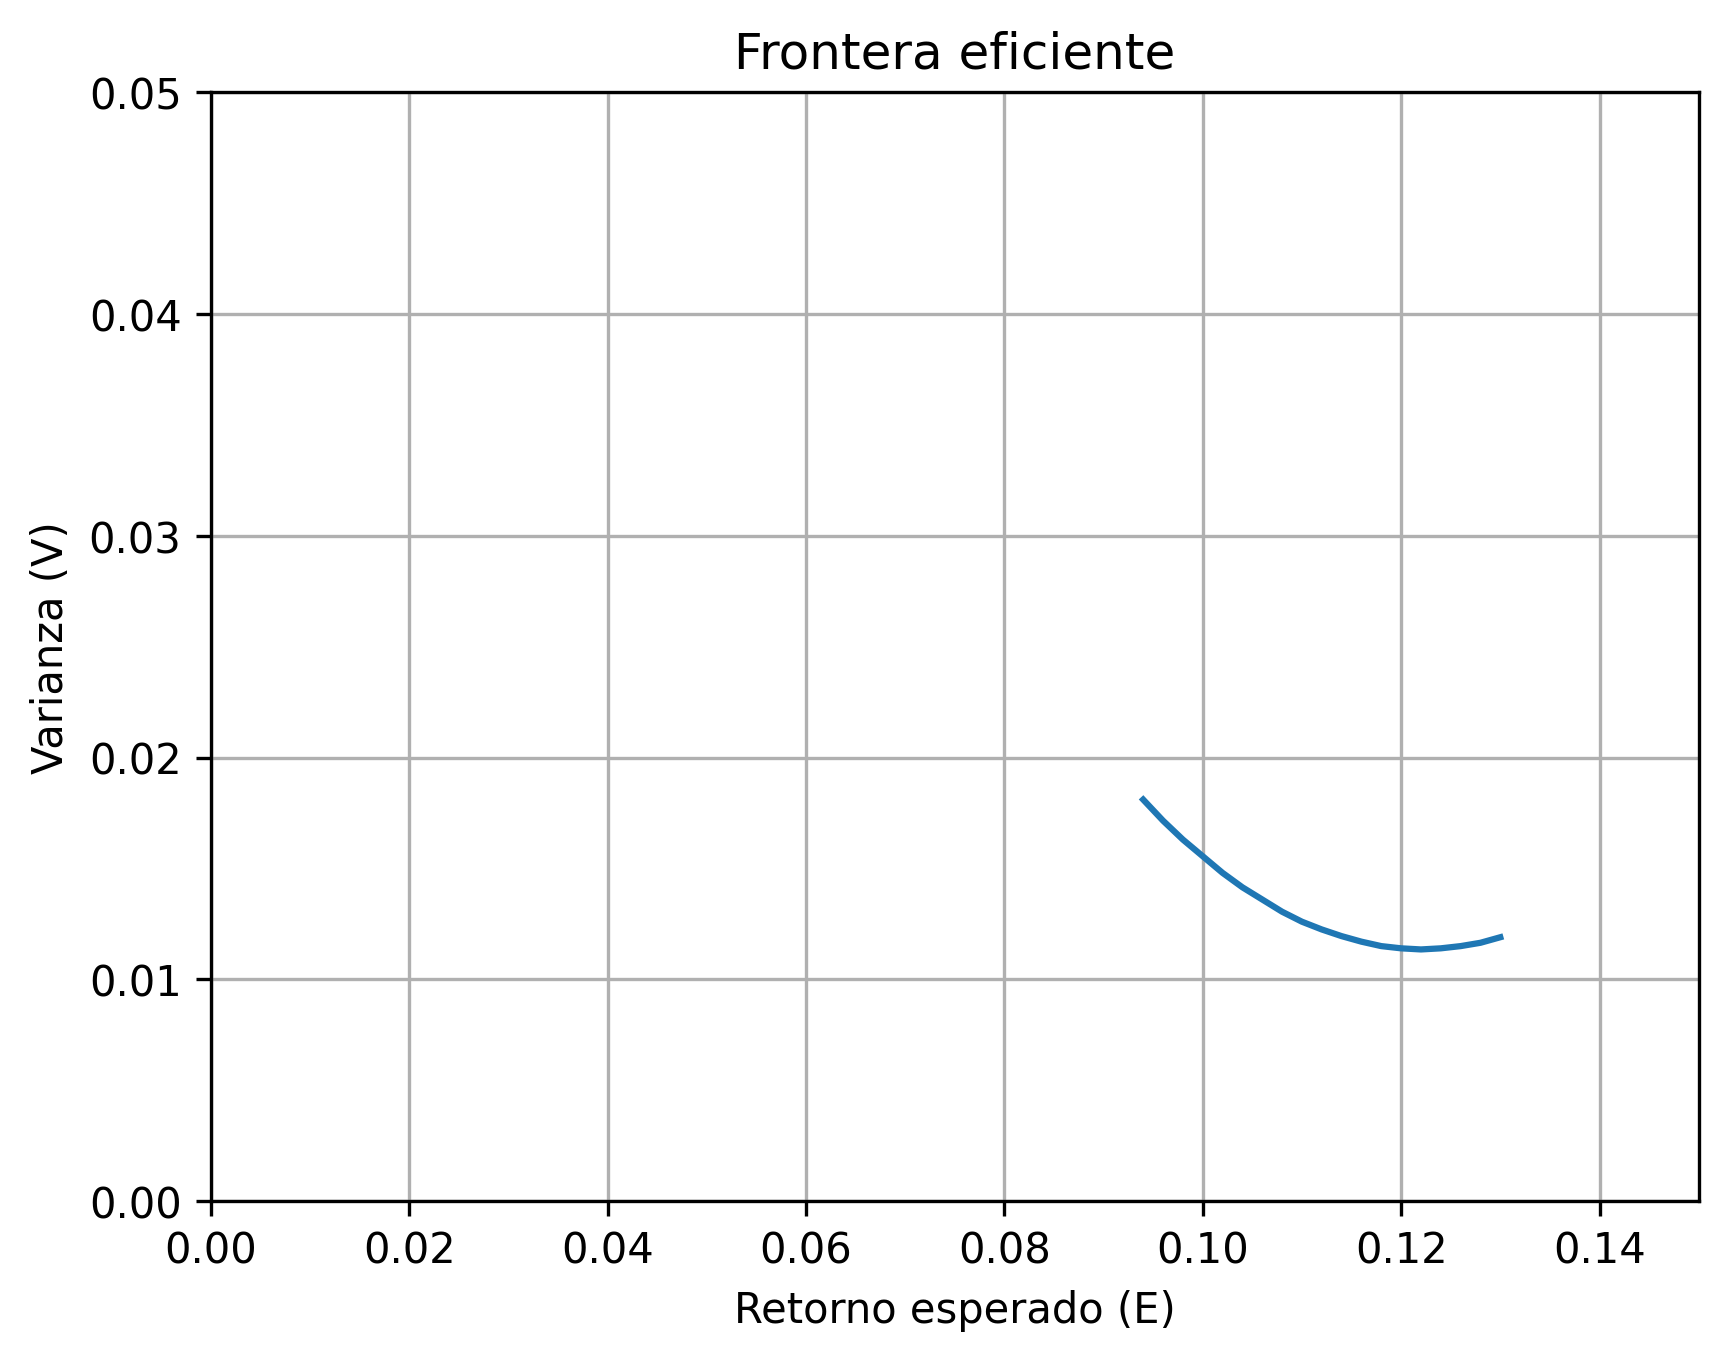
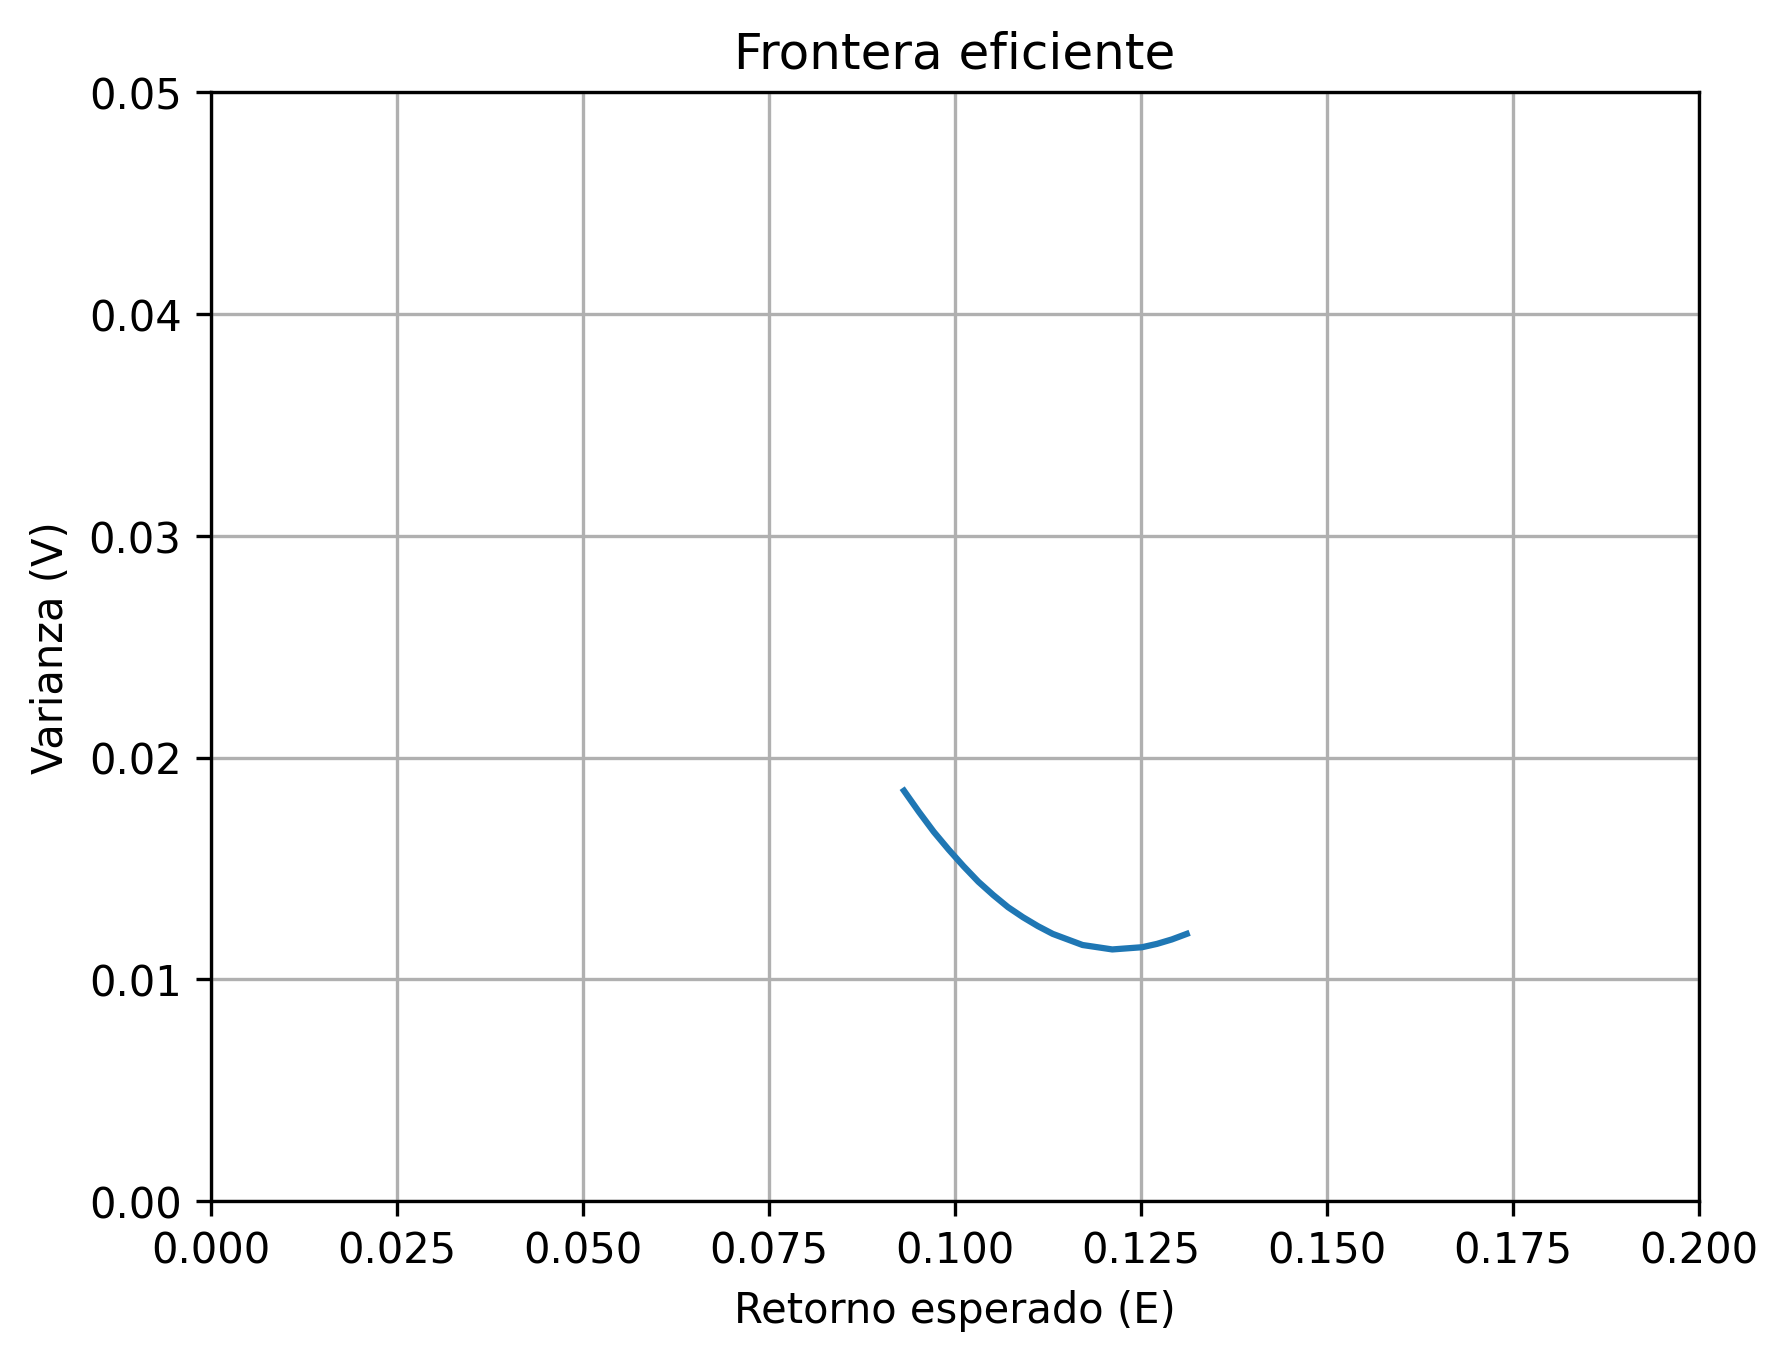
final del codigo

diff --git a/src/FronteraEficiente3IndicesETF.py b/src/FronteraEficiente3IndicesETF.py
@@ -5,9 +5,9 @@ import random
 import math
 import pandas as pd
 
-m1 = 0.1180850933
-m2 = 0.1619481497
-m3 = 0.0771816605
+m1 = 0.1180850933 #IBEX35
+m2 = 0.1619481497 #SP500
+m3 = 0.0771816605 #EMM
 v1 = 0.03492332644
 v2 = 0.02776645397
 v3 = 0.03505910984
@@ -18,28 +18,39 @@ cv23 = 0.0005112105901
 # Gröbner se calcula UNA sola vez
 p1, p2, E, V = sp.symbols('p1 p2 E V', real=True)
 p3 = 1 - p1 - p2
+# Definimos las ecuaciones polinomiales para la frontera eficiente
+# Se tienen que igualar a 0, se pasan al otro lado de la igualdad
 pol2 = E - (m1*p1 + m2*p2 + m3*p3)
 pol3 = V - (v1*p1**2 + v2*p2**2 + v3*p3**2 +
             2*cv12*p1*p2 + 2*cv13*p1*p3 + 2*cv23*p2*p3)
 
+#Creamos el sistema de ecuaciones polinomiales y calculamos el Gröbner
 G = sp.groebner([pol2, pol3], p1, p2, E, V, order='lex')
-eq1, eq2 = G[0], G[1]
+eq1, eq2 = G[0], G[1] #sacamos los dos elementos del ideal
 
+#Resolvemos el sistema de ecuaciones polinomiales para p1 y p2 en función de E y V usando la base
+#Nos quedaramos con la primera solución, ya que la segunda es la misma pero con p1 y p2 intercambiados, lo que no aporta nada nuevo a la frontera eficiente
+#Esta solucion, reduciendo con la base de grobner hará que cada elemento del ideal solo dependa de p1 o p2, facilitando los calculos
 p1_expr = sp.solve(eq1, p1)[0]
 eq2_sub = sp.simplify(eq2.subs(p1, p1_expr))
 sol_p2 = sp.solve(eq2_sub, p2)
 p1_sol = sol_p2[0]
 p2_sol = sol_p2[1]
 
-# Ahora el bucle solo sustituye E y evalúa
+# Realizaremos un bucle, para aproximar E y V, y asi obtener los pesos de cada activo para cada punto de la frontera eficiente, quedandonos con el punto de menor varianza para cada valor de E
 MenoresVarianzas = []
 Esperanzas = []
+#Creamos un rango de valores para E, que es el retorno esperado, para recorrer la frontera eficiente.
 recorrer = np.linspace(0.005, 0.05, 500)
 
 #El E_valor solo puede estar entre la rentabilidad minima y maxima
 recorrer = np.linspace(0.01, 0.06, 1000)
-E_valor = 0.08
-while E_valor <= 0.16:
+ #Las esperanzas tienen que estar entre la rentabilidad minima y maxima, si no,
+ # no se pueden calcular los pesos de cada activo, ya que no se pueden obtener soluciones reales para p1 y p2
+E_valor = 0.0771816605
+while E_valor <= 0.1619481497:
+    #Sustituimos los valores de E
+   
     p1_E = p1_sol.subs(E, E_valor)
     p2_E = p2_sol.subs(E, E_valor)
     f_p1 = sp.lambdify(V, p1_E, "numpy")
@@ -49,31 +60,39 @@ while E_valor <= 0.16:
 
     for V_valor in recorrer:
         try:
+            #pasamos los valores a tipo float y calculamos el peso 3, que era dependiente de los otros 2 por la reestriccion
             pol1It = float(np.real(f_p1(V_valor)))
             pol2It = float(np.real(f_p2(V_valor)))
             pol3It = 1 - pol1It - pol2It
-            if (np.isfinite(pol1It) and np.isfinite(pol2It) and np.isfinite(pol3It)
-                    and pol1It >= 0 and pol2It >= 0 and pol3It >= 0):
+            if (np.isfinite(pol1It) and np.isfinite(pol2It) and np.isfinite(pol3It) and pol1It >= 0 and pol2It >= 0 and pol3It >= 0):
+            #ponemos la reestriccion de que los pesos no pueden ser negativos, ya que sino el inversor estaria vendiendo el activo
                 V_frontera.append(V_valor)
+                #Guardamos los pessos
                 p1_f.append(pol1It)
                 p2_f.append(pol2It)
                 p3_f.append(pol3It)
         except:
+            #Si da un fallo, saltamos a la siguiuente iteracion, que puede ocurrir si
+            #una de las reestricciones no se cumple
             continue
 
     if V_frontera:
+        #Guardamos el punto de menor varianza para cada valor de E, que es el punto de la frontera eficiente
         i = np.argmin(V_frontera)
+        #Guardamos el valor n veces, el nhumero de iteraciones
         MenoresVarianzas.append([E_valor, V_frontera[i], p1_f[i], p2_f[i], p3_f[i]])
         Esperanzas.append(E_valor)
+        #Aumentamos E para la siguiente iteracion
     E_valor += 0.002
 
-
+#Cambiamos a formato [(Esperanza,Varianza)] para facilitar los graficos
 frontera = list(zip(Esperanzas, MenoresVarianzas))
 print(frontera)
 
 E_vals = []
 V_vals = []
 
+#Sacamos los valores de E y V para graficar la frontera eficiente en un array, para el formato de matplotlib
 for row in MenoresVarianzas:
     E_vals.append(row[0])
     V_vals.append(row[1])
@@ -81,11 +100,12 @@ for row in MenoresVarianzas:
 E_vals = np.array(E_vals)
 V_vals = np.array(V_vals)
 
-# ordenar por E 
+# ordenar por E y V, deberian ya estar ordenados, pero por si acaso
 idx = np.argsort(E_vals)
 E_vals = E_vals[idx]
 V_vals = V_vals[idx]
 
+#Hacer el plot de la frontera eficiente, con el conjunto de Esperanzas y Varianzas 
 plt.figure()
 plt.plot(E_vals, V_vals)
 
@@ -93,7 +113,7 @@ plt.xlabel("Retorno esperado (E)")
 plt.ylabel("Varianza (V)")
 plt.title("Frontera eficiente")
 
-plt.xlim(0, 0.15)
+plt.xlim(0, 0.2)
 plt.ylim(0, 0.05)
 
 plt.grid(True)
@@ -109,27 +129,30 @@ print("Realizaremos una aproximacion de MonteCarlo, es posible que el programa t
 N = 2000
 lista_monteCarlo = []
 
-# este comando da solamente los pesos que suman 1
+# este comando da solamente los pesos que suman 1 y nos da valores aleatorios, que son carteras aleatorias
 pesos = np.random.dirichlet(np.ones(3), size=N)
 
+#Guardamos los pesos
 for i in range(N):
     lista_monteCarlo.append((pesos[i][0], pesos[i][1], pesos[i][2]))
-
+#Print para el tamaño, y ademas debbing para ver que se estan generando las combinaciones
 print(f"Se han generado numerosas combinaciones aleatorias de pesos para los activos. Total: {N} combinaciones.")
 plt.figure()
 plt.plot(E_vals, V_vals)
 
+#Calulamos el retorno esperado y la varianza para cada combinacion de pesos, y los graficamos, para ver que caen debajo de la frontera eficiente
 for i in range(len(lista_monteCarlo)):
     p1Carlo, p2Carlo, p3Carlo = lista_monteCarlo[i]
     E_random = m1*p1Carlo + m2*p2Carlo + m3*p3Carlo
     V_random = v1*p1Carlo**2 + v2*p2Carlo**2 + v3*p3Carlo**2 + 2*cv12*p1Carlo*p2Carlo + 2*cv13*p1Carlo*p3Carlo + 2*cv23*p2Carlo*p3Carlo
     plt.scatter(E_random, V_random, color='red', s=10, alpha=0.5)
 
+#Hacemos el plot similar anterior, pero con un scatterplot (puntos de (E,V)) para ver que se aproxima bien
 plt.xlabel("Retorno esperado (E)")
 plt.ylabel("Varianza (V)")
 plt.title("Aproximacion de Montecarlo con combinaciones aleatorias de pesos")
 
-plt.xlim(0, 0.15)
+plt.xlim(0, 0.2)
 plt.ylim(0, 0.05)
 
 plt.grid(True)
@@ -138,7 +161,7 @@ plt.savefig("aproximacion_montecarlo.png", dpi=300, bbox_inches="tight")
 plt.show()
 
 #Exportamos con pandas a un excel
-tabla = pd.DataFrame(MenoresVarianzas, columns=['Rentabilidad', 'Varianza', 'SP500', 'IBEX35', 'EMM'])
+tabla = pd.DataFrame(MenoresVarianzas, columns=['Rentabilidad', 'Varianza', 'IBEX35', 'SP500', 'EMM'])
 tabla['Rentabilidad'] = tabla['Rentabilidad'].round(4)
 tabla['Varianza'] = tabla['Varianza'].round(6)
 tabla['SP500'] = tabla['SP500'].round(4)